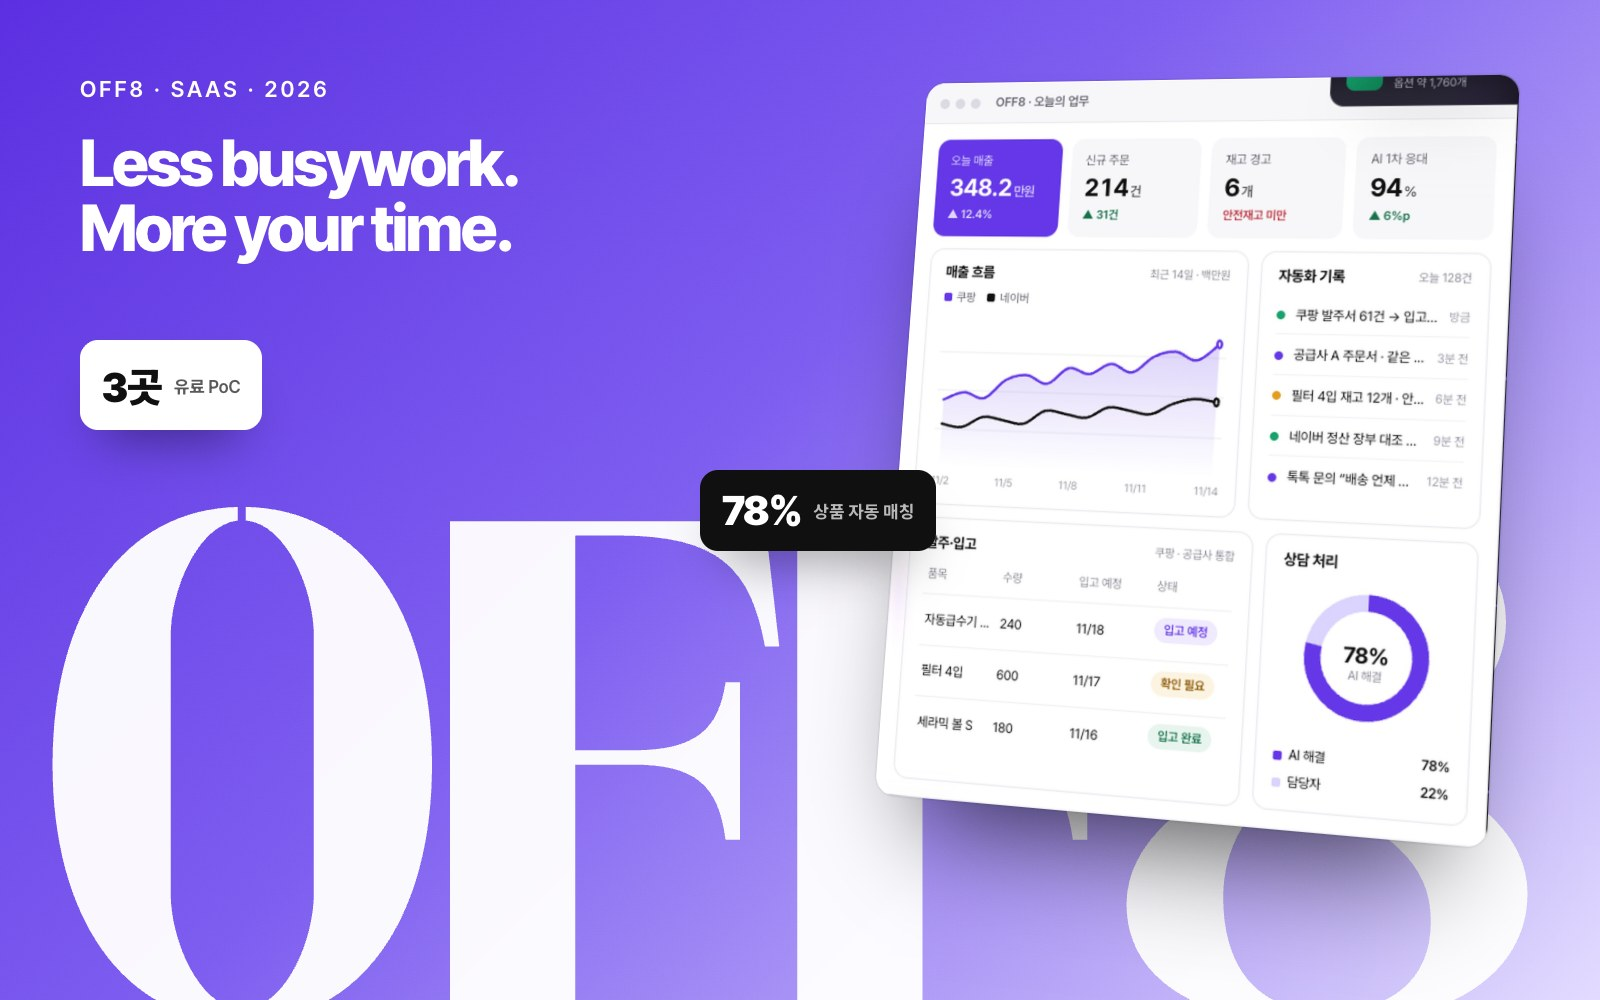
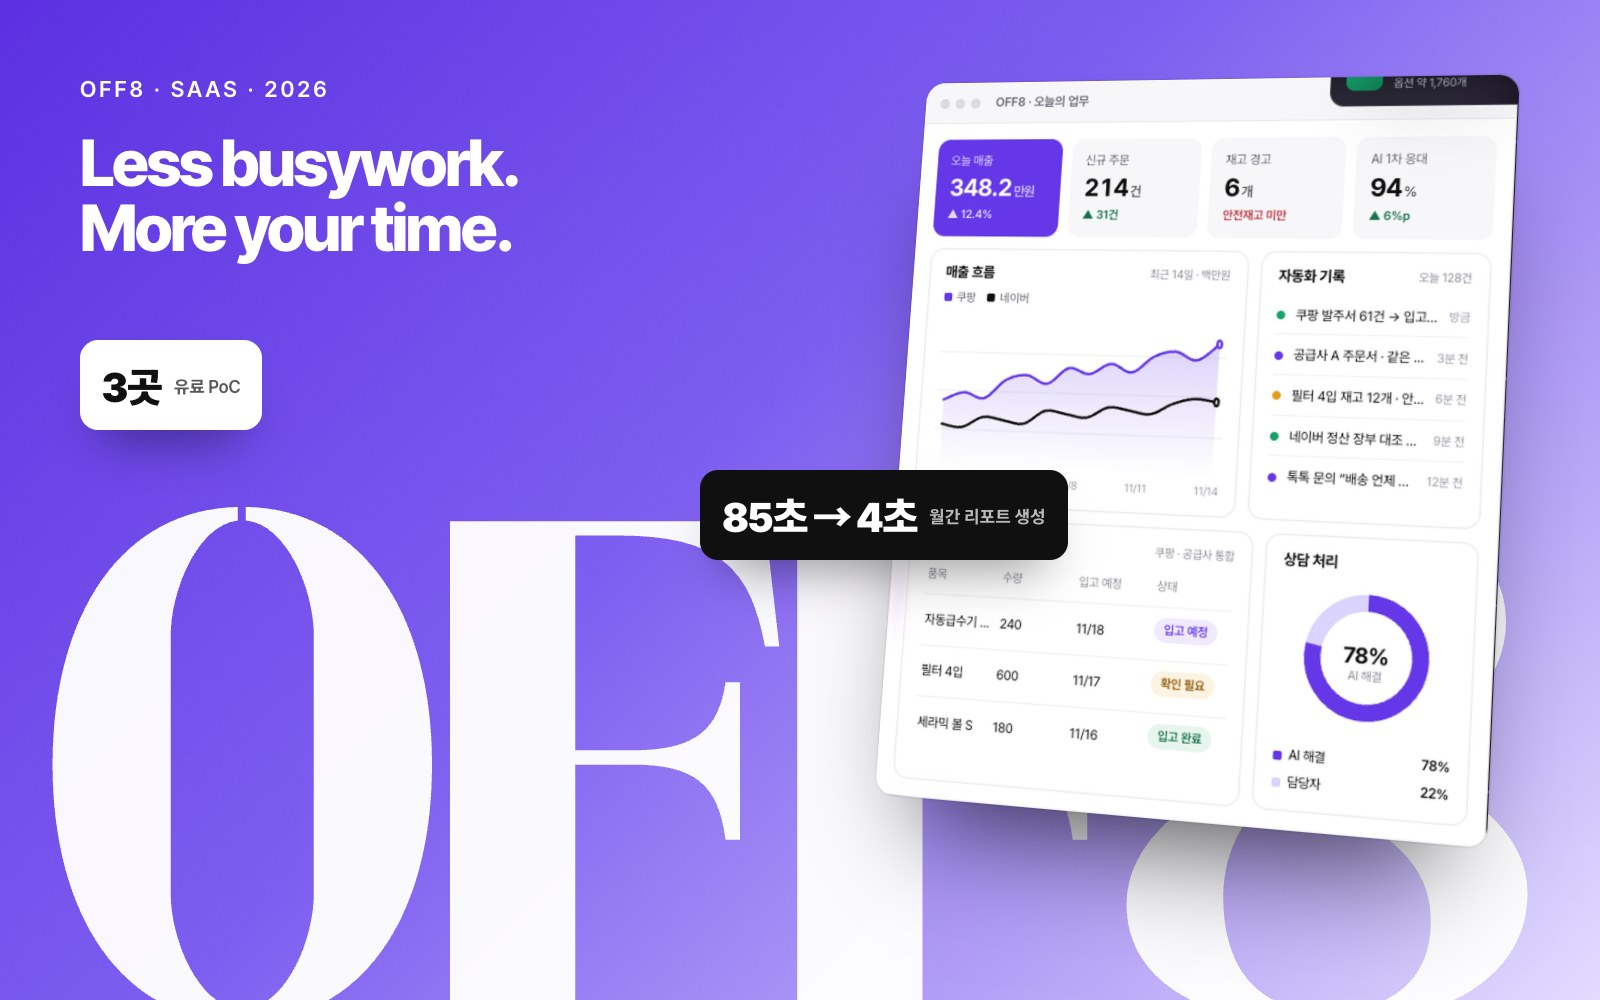
Ticketeer · EarthMera 케이스를 Before → After로 시작, OFF8 표지 숫자를 85초→4초로, 그 밖의 작업 썸네일을 디자인 표지로

Changed region(s): [[0.4375, 0.465, 0.6875, 0.589]]

diff --git a/index.html b/index.html
@@ -20,7 +20,7 @@
   <link rel="preconnect" href="https://fonts.googleapis.com" />
   <link rel="preconnect" href="https://fonts.gstatic.com" crossorigin />
   <link href="https://fonts.googleapis.com/css2?family=Inter+Tight:wght@400;500;600;700;800&family=Noto+Sans+KR:wght@400;500;700&display=swap" rel="stylesheet" />
-  <link rel="stylesheet" href="style.css?v=19" />
+  <link rel="stylesheet" href="style.css?v=20" />
   <script type="importmap">{ "imports": { "three": "https://cdn.jsdelivr.net/npm/three@0.169.0/build/three.module.js" } }</script>
 </head>
 <body>
@@ -114,8 +114,8 @@
       </header>
       <div class="case-body">
         <div class="case-stage"><div class="cs-frame">
-          <div class="cs-vis" data-v="0"><div class="ph-row"><figure class="phone-f big"><img src="shots/em/tk-landing.jpg" alt="" loading="lazy" /></figure></div><span class="cs-cap kr">PoC 당시 첫 화면 · 앱 설치가 먼저였습니다</span></div>
-          <div class="cs-vis" data-v="1"><div class="ph-row"><figure class="phone-f tilt-l"><img src="shots/em/tk-booth-qr.jpg" alt="" loading="lazy" /></figure><figure class="phone-f big"><img src="shots/em/tk-mission.jpg" alt="" loading="lazy" /></figure></div><span class="cs-cap kr">부스 QR → 바로 미션</span></div>
+          <div class="cs-vis" data-v="0"><span class="ba-tag">Before · PoC</span><div class="ph-row"><figure class="mock-f tilt-l"><img src="shots/em/tk-before-checkin.webp" alt="" loading="lazy" /></figure><figure class="mock-f big"><img src="shots/em/tk-before-mission.webp" alt="" loading="lazy" /></figure></div><span class="cs-cap kr">PoC 당시 · 앱을 깔고 체크인 코드를 넣어야 미션이 열렸습니다</span></div>
+          <div class="cs-vis" data-v="1"><span class="ba-tag after">After</span><div class="ph-row"><figure class="phone-f tilt-l"><img src="shots/em/tk-landing.jpg" alt="" loading="lazy" /></figure><figure class="phone-f big"><img src="shots/em/tk-booth-qr.jpg" alt="" loading="lazy" /></figure></div><span class="cs-cap kr">앱 없이 웹으로 · 부스 QR을 찍으면 바로 미션</span></div>
           <div class="cs-vis" data-v="2"><div class="ph-row"><figure class="phone-f tilt-l"><img src="shots/em/tk-mission.jpg" alt="" loading="lazy" /></figure><figure class="phone-f big"><img src="shots/em/tk-lucky.jpg" alt="" loading="lazy" /></figure></div><span class="cs-cap kr">미션 → 스탬프 → 럭키드로우</span></div>
           <div class="cs-vis" data-v="3"><div class="ph-row three"><figure class="ph-col"><div class="phone-f"><img src="shots/em/tk-mission.jpg" alt="" loading="lazy" /></div><figcaption class="kr">참가자</figcaption></figure><figure class="ph-col"><div class="phone-f"><img src="shots/em/tk-booth.jpg" alt="" loading="lazy" /></div><figcaption class="kr">부스 관리자</figcaption></figure><figure class="ph-col"><div class="phone-f"><img src="shots/em/tk-host.jpg" alt="" loading="lazy" /></div><figcaption class="kr">주최자</figcaption></figure></div></div>
           <div class="cs-vis" data-v="4"><div class="res-grid"><img class="res-photo" src="shots/em/ukis-photo1.jpg" alt="UKIS 2025 현장" loading="lazy" /><img class="res-cover" src="shots/em/tk-report.jpg" alt="Post-Event Report 표지" loading="lazy" /><div class="res-big"><b>90%</b><span class="kr">미션 완료율</span></div></div></div>
@@ -141,8 +141,8 @@
       </header>
       <div class="case-body">
         <div class="case-stage"><div class="cs-frame">
-          <div class="cs-vis" data-v="0"><div class="ph-row"><figure class="phone-f big"><img src="shots/em/em-app-home.jpg" alt="" loading="lazy" /></figure></div><span class="cs-cap kr">개편한 홈 화면</span></div>
-          <div class="cs-vis" data-v="1"><div class="ph-row"><figure class="phone-f tilt-l"><img src="shots/em/em-app-home.jpg" alt="" loading="lazy" /></figure><div class="note-card kr"><b>캐릭터 = 진행도</b><span>오늘 줄인 탄소 · 오늘의 목표 · 나의 루틴</span></div></div></div>
+          <div class="cs-vis" data-v="0"><span class="ba-tag">Before</span><div class="ph-row"><figure class="mock-f big"><img src="shots/em/em-before-home.webp" alt="" loading="lazy" /></figure><figure class="mock-f tilt-r"><img src="shots/em/em-before-impact.webp" alt="" loading="lazy" /></figure></div><span class="cs-cap kr">개편 전 홈과 임팩트 화면</span></div>
+          <div class="cs-vis" data-v="1"><div class="ba-row"><div class="ba-col"><span class="ba-tag">Before</span><figure class="mock-f "><img src="shots/em/em-before-home.webp" alt="" loading="lazy" /></figure></div><i class="ba-arrow">→</i><div class="ba-col"><span class="ba-tag after">After</span><figure class="phone-f "><img src="shots/em/em-app-home.jpg" alt="" loading="lazy" /></figure></div><div class="note-card kr"><b>캐릭터 = 진행도</b><span>오늘 줄인 탄소 · 오늘의 목표 · 나의 루틴</span></div></div></div>
           <div class="cs-vis" data-v="2"><div class="ph-row"><figure class="phone-f big"><img src="shots/em/em-app-forum.jpg" alt="" loading="lazy" /></figure></div><span class="cs-cap kr">주제별 토론 포럼</span></div>
           <div class="cs-vis" data-v="3"><div class="ph-row"><figure class="phone-f tilt-l"><img src="shots/em/em-app-home.jpg" alt="" loading="lazy" /></figure><figure class="phone-f tilt-r"><img src="shots/em/em-app-forum.jpg" alt="" loading="lazy" /></figure><div class="res-big solo"><b>+1,000</b><span class="kr">신규 가입</span></div></div></div>
         </div></div>
@@ -189,10 +189,10 @@
       </div>
       <div class="more-grid">
         <div class="mw"><div class="mw-img phones"><img src="shots/em/zigu-1.jpg" alt="" loading="lazy" /><img src="shots/em/zigu-2.jpg" alt="" loading="lazy" /><img src="shots/em/zigu-3.jpg" alt="" loading="lazy" /></div><span class="mw-meta">ZIGU · 2025 · EarthMera · 0 → 1 설계</span><h3 class="kr">캔버스처럼 꾸미는 링크인바이오.</h3><p class="kr">자유도가 높을수록 첫 사용이 어렵다는 문제를, 위젯 선택 → 배치 → 편집 → 완성 4단계 온보딩으로 풀었습니다.</p><b>+100 <small class="kr">구독 가입</small></b></div>
-        <a class="mw" href="https://flawlessjimmy.github.io/off8/" target="_blank" rel="noopener" data-cursor="Open"><div class="mw-img"><img src="shots/em/off8-hero.jpg" alt="" loading="lazy" /></div><span class="mw-meta">OFF8 · 2026 · 사업 기획 · 제품 사이트</span><h3 class="kr">세 고객사의 일을 하나의 구독 서비스로.</h3><p class="kr">직접 운영한 유료 PoC 3건을 공통 기능과 선택 모듈로 묶고, 사업계획서와 제품 사이트까지 만들었습니다.</p><b>3곳 <small class="kr">유료 PoC</small></b></a>
-        <a class="mw" href="https://kanto-order-server.pages.dev" target="_blank" rel="noopener" data-cursor="Open"><div class="mw-img"><img src="shots/kanto-order.jpg" alt="" loading="lazy" /></div><span class="mw-meta">KANTO · 2026 · 업무 시스템</span><h3 class="kr">엑셀 수작업 대조를 웹 흐름으로.</h3><p class="kr">쿠팡 발주서와 공급사 주문서의 같은 상품을 신뢰도 5단계로 맞추고, 사람은 확인이 필요한 것만 봅니다.</p><b>98% <small class="kr">자동 매칭</small></b></a>
-        <a class="mw" href="https://flawlessjimmy.github.io/tessera/" target="_blank" rel="noopener" data-cursor="Open"><div class="mw-img"><img src="shots/flip-tessera.jpg" alt="" loading="lazy" /></div><span class="mw-meta">Tessera · 2026 · 개인 프로젝트 · 프로토타입</span><h3 class="kr">방에 깔아 보고 고르는 자재.</h3><p class="kr">사진만으로는 고르기 어려운 마감재를 3D 방에 직접 깔아 보고, 평수별 견적까지 계산합니다.</p><b>34종 <small class="kr">자재</small></b></a>
-        <a class="mw" href="https://www.maoxga.com/" target="_blank" rel="noopener" data-cursor="Open"><div class="mw-img"><img src="shots/maoxga-desktop.jpg" alt="" loading="lazy" class="top" /></div><span class="mw-meta">묘향가 · 2026 · 카페24 자사몰</span><h3 class="kr">자사몰을 모바일부터 다시.</h3><p class="kr">휴대폰 화면에서 먼저 설계하고, 회원·장바구니·네이버페이·상담 위젯까지 연결했습니다.</p><b>375px <small class="kr">부터 설계</small></b></a>
+        <a class="mw" href="https://flawlessjimmy.github.io/off8/" target="_blank" rel="noopener" data-cursor="Open"><div class="mw-img"><img src="shots/cover-off8.jpg" alt="" loading="lazy" /></div><span class="mw-meta">OFF8 · 2026 · 사업 기획 · 제품 사이트</span><h3 class="kr">세 고객사의 일을 하나의 구독 서비스로.</h3><p class="kr">직접 운영한 유료 PoC 3건을 공통 기능과 선택 모듈로 묶고, 사업계획서와 제품 사이트까지 만들었습니다.</p><b>3곳 <small class="kr">유료 PoC</small></b></a>
+        <a class="mw" href="https://kanto-order-server.pages.dev" target="_blank" rel="noopener" data-cursor="Open"><div class="mw-img"><img src="shots/cover-kanto.jpg" alt="" loading="lazy" /></div><span class="mw-meta">KANTO · 2026 · 업무 시스템</span><h3 class="kr">엑셀 수작업 대조를 웹 흐름으로.</h3><p class="kr">쿠팡 발주서와 공급사 주문서의 같은 상품을 신뢰도 5단계로 맞추고, 사람은 확인이 필요한 것만 봅니다.</p><b>98% <small class="kr">자동 매칭</small></b></a>
+        <a class="mw" href="https://flawlessjimmy.github.io/tessera/" target="_blank" rel="noopener" data-cursor="Open"><div class="mw-img"><img src="shots/cover-tessera.jpg" alt="" loading="lazy" /></div><span class="mw-meta">Tessera · 2026 · 개인 프로젝트 · 프로토타입</span><h3 class="kr">방에 깔아 보고 고르는 자재.</h3><p class="kr">사진만으로는 고르기 어려운 마감재를 3D 방에 직접 깔아 보고, 평수별 견적까지 계산합니다.</p><b>34종 <small class="kr">자재</small></b></a>
+        <a class="mw" href="https://www.maoxga.com/" target="_blank" rel="noopener" data-cursor="Open"><div class="mw-img"><img src="shots/cover-maoxga.jpg" alt="" loading="lazy" /></div><span class="mw-meta">묘향가 · 2026 · 카페24 자사몰</span><h3 class="kr">자사몰을 모바일부터 다시.</h3><p class="kr">휴대폰 화면에서 먼저 설계하고, 회원·장바구니·네이버페이·상담 위젯까지 연결했습니다.</p><b>375px <small class="kr">부터 설계</small></b></a>
       </div>
     </section>
 
@@ -253,7 +253,7 @@
   <script src="https://cdnjs.cloudflare.com/ajax/libs/gsap/3.13.0/ScrollTrigger.min.js"></script>
   <script src="https://cdnjs.cloudflare.com/ajax/libs/gsap/3.13.0/SplitText.min.js"></script>
   <script src="https://cdn.jsdelivr.net/npm/lenis@1.3.4/dist/lenis.min.js"></script>
-  <script src="main.js?v=14"></script>
+  <script src="main.js?v=15"></script>
   <script type="module" src="flip.js?v=6"></script>
 </body>
 </html>

diff --git a/style.css b/style.css
@@ -647,3 +647,20 @@ h1, h2, h3 { text-wrap: balance; }
 @media (max-width: 900px) { .ph-row.three .ph-col { width: 30%; height: auto; } .ph-col .phone-f { width: 100%; height: auto; max-width: none; } .ph-col figcaption { font-size: 13px; } }
 .ph-row.three { height: 92%; }
 .ph-row.three .ph-col { height: 100%; }
+/* Before → After */
+.mock-f { margin: 0; height: 92%; aspect-ratio: 965 / 2000; flex: none; filter: drop-shadow(0 40px 50px rgba(0, 0, 0, .6)); }
+.mock-f img { width: 100%; height: 100%; object-fit: contain; display: block; }
+.mock-f.big { height: 98%; }
+.mock-f.tilt-l { transform: rotate(-5deg); }
+.mock-f.tilt-r { transform: rotate(5deg); }
+.ba-tag { align-self: center; display: inline-block; padding: 7px 16px; border-radius: 999px; font-size: 14px; font-weight: 800; letter-spacing: .12em; text-transform: uppercase; color: #ffb4a8; background: rgba(255, 120, 100, .12); border: 1px solid rgba(255, 140, 120, .35); }
+.ba-tag.after { color: var(--mint); background: rgba(98, 240, 221, .1); border-color: rgba(98, 240, 221, .4); }
+.ba-row { display: flex; align-items: center; justify-content: center; gap: 3%; width: 100%; height: 86%; }
+.ba-col { display: flex; flex-direction: column; align-items: center; gap: 14px; height: 100%; }
+.ba-col .mock-f, .ba-col .phone-f { height: calc(100% - 52px); }
+.ba-col:first-child { opacity: .78; }
+.ba-arrow { font-style: normal; font-size: 34px; color: var(--mint); }
+.ba-row .note-card { max-width: 26%; }
+@media (max-width: 900px) { .mock-f { height: auto; max-width: 42%; } .ba-row .note-card { display: none; } .ba-col .mock-f, .ba-col .phone-f { height: auto; width: 100%; max-width: none; } .ba-col { width: 40%; height: auto; } }
+.ba-row .note-card { flex: 0 0 25%; max-width: none; }
+.ba-row { gap: 2.4%; }

diff --git a/main.js b/main.js
@@ -84,7 +84,7 @@
           if (i === k) {
             v.classList.add('is-on');
             gsap.fromTo(v, { opacity: 0, y: 40 * dir }, { opacity: 1, y: 0, duration: 0.7, ease: 'power3.out', overwrite: true });
-            gsap.fromTo($$('.phone-f, .br-f, .res-grid > *, .kpi-pair > div, .note-card, .res-big.solo, .cs-cap, .ph-col figcaption', v), { y: 50, opacity: 0 }, { y: 0, opacity: 1, duration: 0.8, ease: 'power3.out', stagger: 0.08, delay: 0.05, overwrite: true });
+            gsap.fromTo($$('.phone-f, .br-f, .res-grid > *, .kpi-pair > div, .note-card, .res-big.solo, .cs-cap, .ph-col figcaption, .mock-f, .ba-tag, .ba-arrow', v), { y: 50, opacity: 0 }, { y: 0, opacity: 1, duration: 0.8, ease: 'power3.out', stagger: 0.08, delay: 0.05, overwrite: true });
           } else if (v.classList.contains('is-on')) {
             v.classList.remove('is-on');
             gsap.to(v, { opacity: 0, y: -30 * dir, duration: 0.4, ease: 'power2.in', overwrite: true });
